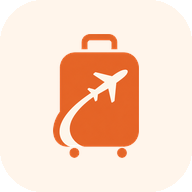
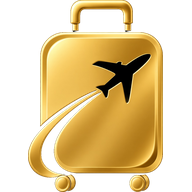
옛 오렌지 브랜딩 애셋 정리, 인수증 배지를 골드 로고로 교체
public/brand 의 구 브랜딩 파일 8개를 정리했다. manifest.json 과
index.html 은 이미 icon-*-v2.png 를 쓰고 있어 영향이 없고, 나머지도
참조가 없었다.

유일하게 살아있던 참조가 VehicleReceiptPage 의 에어픽 배지
(/brand/airpick-icon-192.png) 라서 같은 경로로 새로 만들었다. 배지는
크림색(#fff9f0) 위에 올라가므로 아이콘용 어두운 사각형을 쓸 수 없고,
기존 알파 추출본은 비행기까지 뚫려 있어 밝은 배경에서 사라진다.

그래서 generate-app-icons.py 에 logo_on_light() 를 추가했다. 원본에서
테두리부터 흘려 채워 바깥 배경만 지우고 내부 검정은 남기는 방식이라
어떤 배경색 위에도 올릴 수 있다.

npm run build 로 참조 해소 확인.

diff --git a/scripts/generate-app-icons.py b/scripts/generate-app-icons.py
@@ -16,6 +16,8 @@ from PIL import Image, ImageDraw
 
 ROOT = Path(__file__).resolve().parent.parent
 LOGO = ROOT / "public/brand/airpick-logo-3d.png"
+# 검정 배경이 살아있는 원본 — 밝은 배경용 변형을 뽑을 때 필요하다.
+LOGO_SOURCE = ROOT / "public/brand/airpick-logo-3d-source-1024.png"
 RES = ROOT / "android/app/src/main/res"
 
 # 브랜드 시트의 앱 아이콘과 동일한 배경 — 앱 테마(#09090B)와도 일치해
@@ -93,6 +95,85 @@ def circle_mask(size: int) -> Image.Image:
     return mask
 
 
+def logo_on_light() -> Image.Image:
+    """밝은 배경에 얹을 로고.
+
+    LOGO 는 검정을 전부 투명으로 만든 것이라 비행기·궤적까지 뚫려 있다.
+    어두운 앱 아이콘 배경에서는 의도대로 보이지만 크림색 인수증 위에서는
+    비행기가 사라진다. 그래서 원본에서 바깥 배경만 테두리부터 흘려
+    지우고 내부 검정은 남긴다.
+    """
+    src = Image.open(LOGO_SOURCE).convert("RGB")
+    w, h = src.size
+    px = src.load()
+
+    lum = [0] * (w * h)
+    for y in range(h):
+        row = y * w
+        for x in range(w):
+            r, g, b = px[x, y]
+            lum[row + x] = (r * 77 + g * 150 + b * 29) >> 8
+
+    DARK = 45
+    outside = bytearray(w * h)
+    stack = []
+    for x in range(w):
+        for y in (0, h - 1):
+            i = y * w + x
+            if lum[i] <= DARK and not outside[i]:
+                outside[i] = 1
+                stack.append(i)
+    for y in range(h):
+        for x in (0, w - 1):
+            i = y * w + x
+            if lum[i] <= DARK and not outside[i]:
+                outside[i] = 1
+                stack.append(i)
+
+    while stack:
+        i = stack.pop()
+        x, y = i % w, i // w
+        if x > 0:
+            j = i - 1
+            if lum[j] <= DARK and not outside[j]:
+                outside[j] = 1
+                stack.append(j)
+        if x < w - 1:
+            j = i + 1
+            if lum[j] <= DARK and not outside[j]:
+                outside[j] = 1
+                stack.append(j)
+        if y > 0:
+            j = i - w
+            if lum[j] <= DARK and not outside[j]:
+                outside[j] = 1
+                stack.append(j)
+        if y < h - 1:
+            j = i + w
+            if lum[j] <= DARK and not outside[j]:
+                outside[j] = 1
+                stack.append(j)
+
+    # 바깥은 밝기 램프로 알파를 깎아 경계를 매끄럽게, 내부는 그대로 불투명.
+    LO, HI = 8, 42
+    alpha = Image.new("L", (w, h))
+    ap = alpha.load()
+    for y in range(h):
+        row = y * w
+        for x in range(w):
+            i = row + x
+            if not outside[i]:
+                ap[x, y] = 255
+                continue
+            v = lum[i]
+            ap[x, y] = 0 if v <= LO else (255 if v >= HI else round((v - LO) / (HI - LO) * 255))
+
+    out = src.convert("RGBA")
+    out.putalpha(alpha)
+    bbox = alpha.point(lambda v: 255 if v > 40 else 0).getbbox()
+    return out.crop(bbox) if bbox else out
+
+
 def save(img: Image.Image, path: Path) -> None:
     path.parent.mkdir(parents=True, exist_ok=True)
     img.save(path, "PNG")
@@ -145,6 +226,15 @@ def main() -> None:
         ).resize((size, size), Image.LANCZOS)
         icon.putalpha(rounded_mask(size, 0.22))
         save(icon, ROOT / f"public/icon-{size}-v2.png")
+
+    print("차량 인수증 배지 (밝은 배경용)")
+    light = logo_on_light()
+    badge = Image.new("RGBA", (192, 192), (0, 0, 0, 0))
+    placed = fit(light, 192)
+    badge.alpha_composite(
+        placed, ((192 - placed.size[0]) // 2, (192 - placed.size[1]) // 2)
+    )
+    save(badge, ROOT / "public/brand/airpick-icon-192.png")
 
     print(
         f"\n완료. values/ic_launcher_background.xml 배경색이 "
